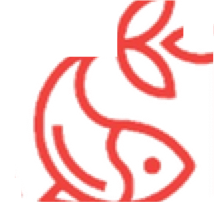
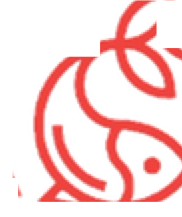
Рыба: убран лишний фрагмент у хвоста

diff --git a/404.html b/404.html
@@ -203,7 +203,7 @@
 <header>
   <div class="wrap nav">
     <a class="logo" href="index.html" aria-label="Красное Прикамье — на главную">
-      <span class="logo-mark"><span class="red">КРА</span><img class="fish" src="assets/fish-mark.png?v=3" alt=""><span class="red">НОЕ</span></span><span class="navy">ПРИКАМЬЕ</span>
+      <span class="logo-mark"><span class="red">КРА</span><img class="fish" src="assets/fish-mark.png?v=4" alt=""><span class="red">НОЕ</span></span><span class="navy">ПРИКАМЬЕ</span>
     </a>
     <nav class="menu">
       <div class="mega" id="mega">

diff --git a/article.html b/article.html
@@ -263,7 +263,7 @@
 <header>
   <div class="wrap nav">
     <a class="logo" href="index.html" aria-label="Красное Прикамье — на главную">
-      <span class="logo-mark"><span class="red">КРА</span><img class="fish" src="assets/fish-mark.png?v=3" alt=""><span class="red">НОЕ</span></span><span class="navy">ПРИКАМЬЕ</span>
+      <span class="logo-mark"><span class="red">КРА</span><img class="fish" src="assets/fish-mark.png?v=4" alt=""><span class="red">НОЕ</span></span><span class="navy">ПРИКАМЬЕ</span>
     </a>
     <nav class="menu">
       <div class="mega" id="mega">

diff --git a/author.html b/author.html
@@ -226,7 +226,7 @@
 <header>
   <div class="wrap nav">
     <a class="logo" href="index.html" aria-label="Красное Прикамье — на главную">
-      <span class="logo-mark"><span class="red">КРА</span><img class="fish" src="assets/fish-mark.png?v=3" alt=""><span class="red">НОЕ</span></span><span class="navy">ПРИКАМЬЕ</span>
+      <span class="logo-mark"><span class="red">КРА</span><img class="fish" src="assets/fish-mark.png?v=4" alt=""><span class="red">НОЕ</span></span><span class="navy">ПРИКАМЬЕ</span>
     </a>
     <nav class="menu">
       <div class="mega" id="mega">

diff --git a/authors.html b/authors.html
@@ -206,7 +206,7 @@
 <header>
   <div class="wrap nav">
     <a class="logo" href="index.html" aria-label="Красное Прикамье — на главную">
-      <span class="logo-mark"><span class="red">КРА</span><img class="fish" src="assets/fish-mark.png?v=3" alt=""><span class="red">НОЕ</span></span><span class="navy">ПРИКАМЬЕ</span>
+      <span class="logo-mark"><span class="red">КРА</span><img class="fish" src="assets/fish-mark.png?v=4" alt=""><span class="red">НОЕ</span></span><span class="navy">ПРИКАМЬЕ</span>
     </a>
     <nav class="menu">
       <div class="mega" id="mega">

diff --git a/katalog.html b/katalog.html
@@ -179,7 +179,7 @@
 <header>
   <div class="wrap nav">
     <a class="logo" href="index.html" aria-label="Красное Прикамье — на главную">
-      <span class="logo-mark"><span class="red">КРА</span><img class="fish" src="assets/fish-mark.png?v=3" alt=""><span class="red">НОЕ</span></span><span class="navy">ПРИКАМЬЕ</span>
+      <span class="logo-mark"><span class="red">КРА</span><img class="fish" src="assets/fish-mark.png?v=4" alt=""><span class="red">НОЕ</span></span><span class="navy">ПРИКАМЬЕ</span>
     </a>
     <nav class="menu">
       <div class="mega" id="mega">

diff --git a/news.html b/news.html
@@ -230,7 +230,7 @@
 <header>
   <div class="wrap nav">
     <a class="logo" href="index.html" aria-label="Красное Прикамье — на главную">
-      <span class="logo-mark"><span class="red">КРА</span><img class="fish" src="assets/fish-mark.png?v=3" alt=""><span class="red">НОЕ</span></span><span class="navy">ПРИКАМЬЕ</span>
+      <span class="logo-mark"><span class="red">КРА</span><img class="fish" src="assets/fish-mark.png?v=4" alt=""><span class="red">НОЕ</span></span><span class="navy">ПРИКАМЬЕ</span>
     </a>
     <nav class="menu">
       <div class="mega" id="mega">

diff --git a/rubric.html b/rubric.html
@@ -223,7 +223,7 @@
 <header>
   <div class="wrap nav">
     <a class="logo" href="index.html" aria-label="Красное Прикамье — на главную">
-      <span class="logo-mark"><span class="red">КРА</span><img class="fish" src="assets/fish-mark.png?v=3" alt=""><span class="red">НОЕ</span></span><span class="navy">ПРИКАМЬЕ</span>
+      <span class="logo-mark"><span class="red">КРА</span><img class="fish" src="assets/fish-mark.png?v=4" alt=""><span class="red">НОЕ</span></span><span class="navy">ПРИКАМЬЕ</span>
     </a>
     <nav class="menu">
       <div class="mega" id="mega">

diff --git a/spravochnik.html b/spravochnik.html
@@ -186,7 +186,7 @@
 <header>
   <div class="wrap nav">
     <a class="logo" href="index.html" aria-label="Красное Прикамье — на главную">
-      <span class="logo-mark"><span class="red">КРА</span><img class="fish" src="assets/fish-mark.png?v=3" alt=""><span class="red">НОЕ</span></span><span class="navy">ПРИКАМЬЕ</span>
+      <span class="logo-mark"><span class="red">КРА</span><img class="fish" src="assets/fish-mark.png?v=4" alt=""><span class="red">НОЕ</span></span><span class="navy">ПРИКАМЬЕ</span>
     </a>
     <nav class="menu">
       <div class="mega" id="mega">

diff --git a/index.html b/index.html
@@ -424,7 +424,7 @@
 <header>
   <div class="wrap nav">
     <a class="logo" href="#" aria-label="Красное Прикамье — на главную">
-      <span class="logo-mark"><span class="red">КРА</span><img class="fish" src="assets/fish-mark.png?v=3" alt=""><span class="red">НОЕ</span></span><span class="navy">ПРИКАМЬЕ</span>
+      <span class="logo-mark"><span class="red">КРА</span><img class="fish" src="assets/fish-mark.png?v=4" alt=""><span class="red">НОЕ</span></span><span class="navy">ПРИКАМЬЕ</span>
     </a>
     <nav class="menu">
       <div class="mega" id="mega">
